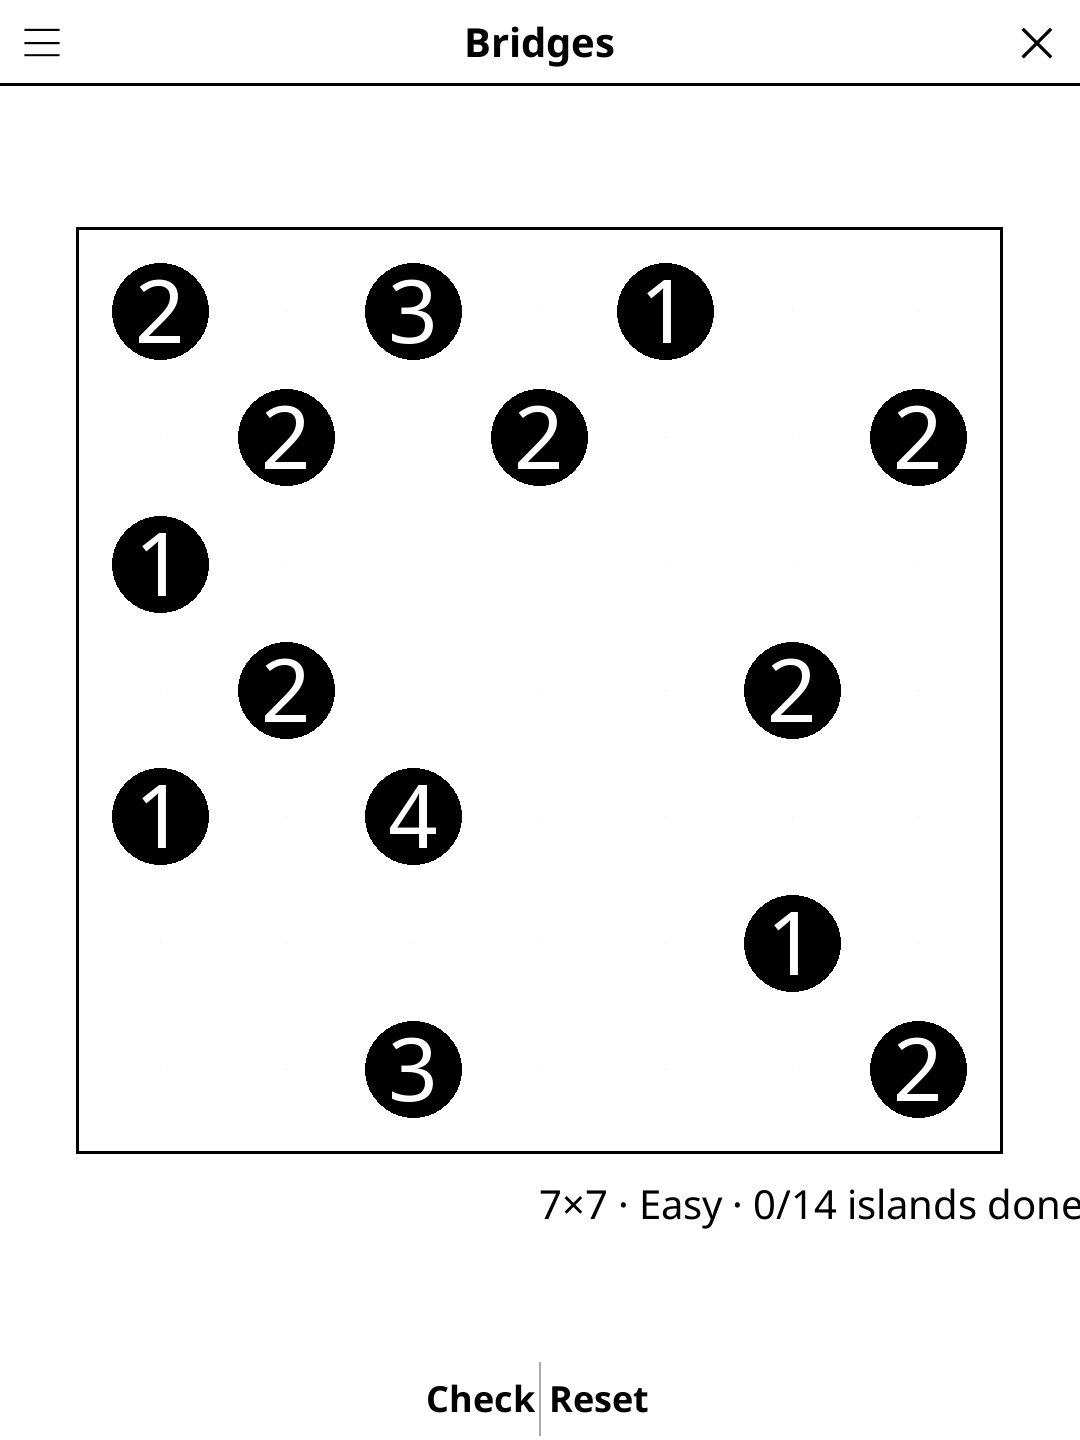
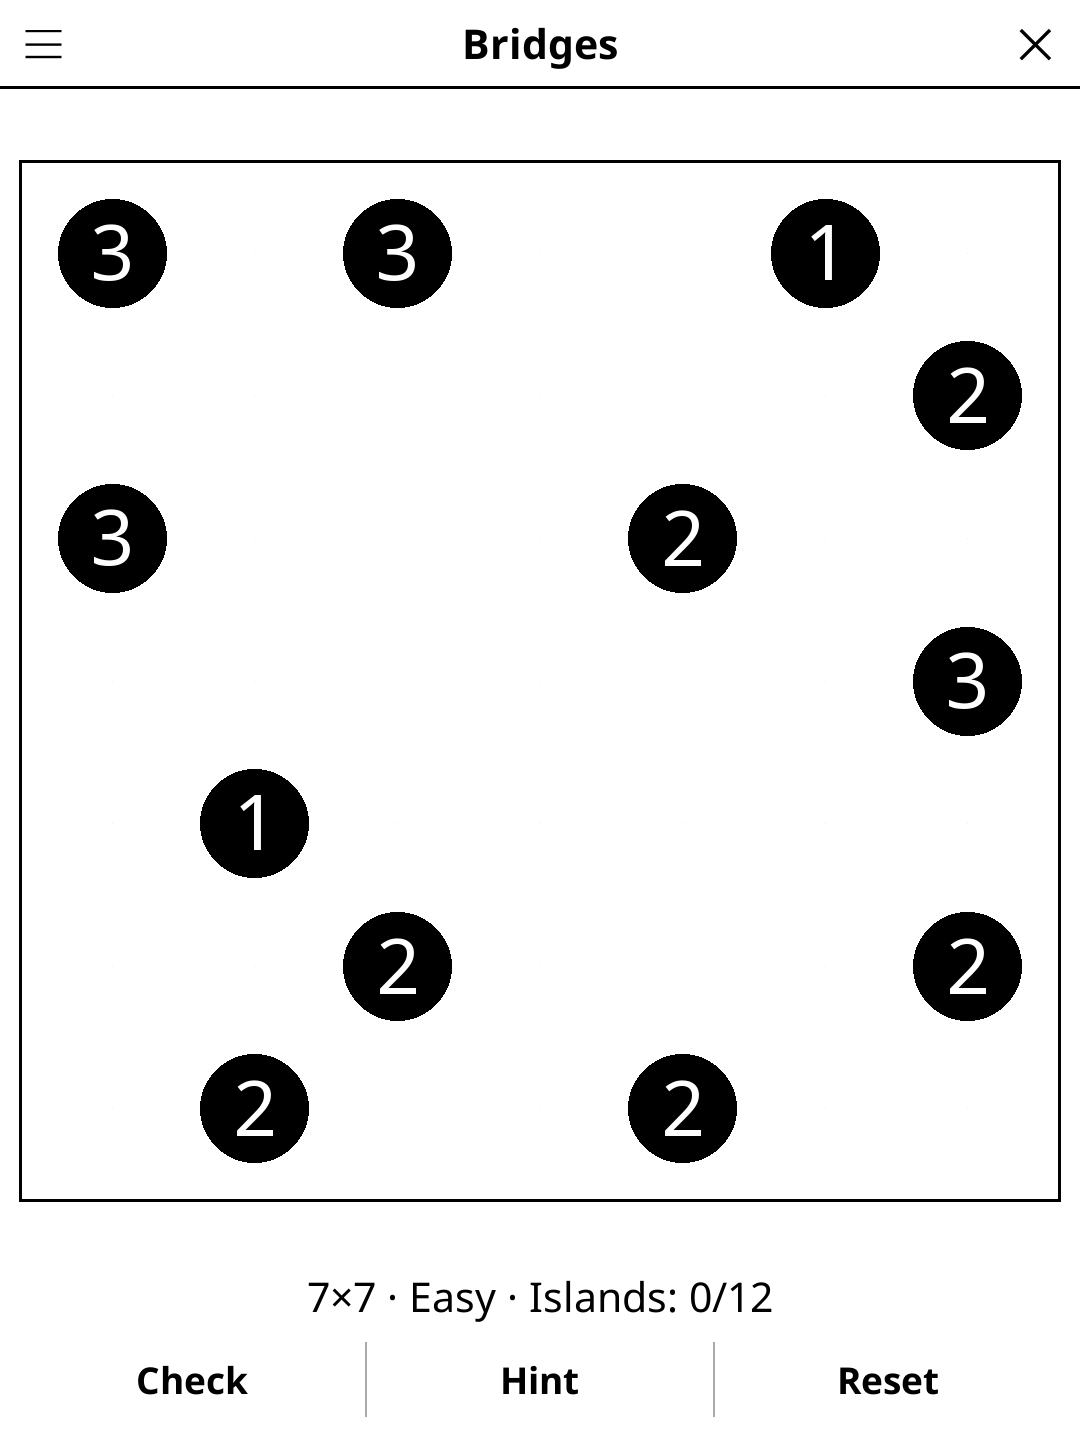
release: 1.3.0 -- redesigned screen, harmonised menu, New game at round end
Screen redesign (full-width action bar, unified pad, status line, larger
board), harmonised title-bar menu, and a "New game" button once the round
is over. See CHANGELOG.md.

diff --git a/CHANGELOG.md b/CHANGELOG.md
@@ -2,6 +2,25 @@
 
 All notable changes to this project will be documented in this file.
 
+## [1.3.0] - 2026-10-30
+
+### Changed
+- Redesigned play screen: the board fills the room the controls leave, with a
+  full-width Check/Hint/Reset bar.
+- The status line reads "7×7 · Hard · Islands: 3/14" and wraps in landscape
+  instead of being cut off.
+- Title-bar menu: "Size: 7×7" and "Difficulty: Hard" instead of "Grid: 7×7"
+  and "Diff: Hard".
+- Once the puzzle is solved, the action bar shows "New game" in place of its
+  buttons.
+
+### Fixed
+- Island numbers overflowed their circle on high-DPI screens (the size was
+  scaled by DPI twice); each one is now the largest that fits inside the
+  island.
+- An applied Hint no longer wipes the saved game (game-common saved it as
+  nil). When a hint fills the last cell, the status now shows the win message.
+
 ## [1.2.2] - 2026-10-07
 
 ### Fixed

diff --git a/README.md b/README.md
@@ -33,7 +33,7 @@ Connect all islands with bridges. Each island's number indicates how many bridge
 | Draw / extend bridge | Tap between two islands |
 | Remove bridge | Tap to cycle back to none |
 | Check progress | Tap **Check** |
-| New puzzle | Tap **New** |
+| New puzzle | Tap **New game** |
 | Show rules | Tap **Rules** |
 
 ## License
